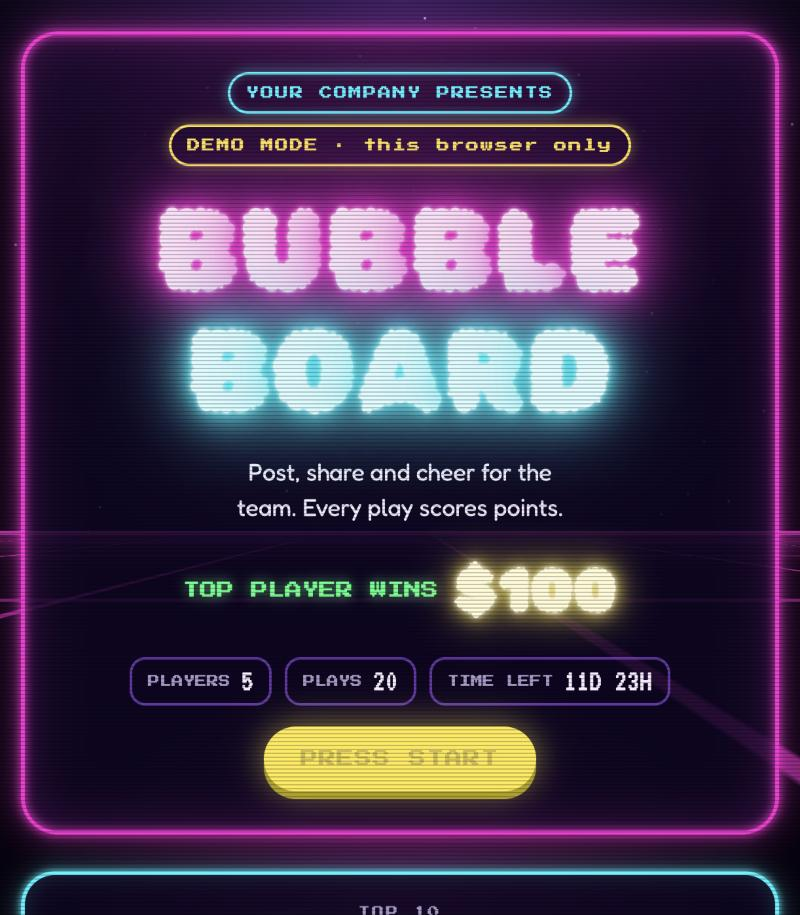
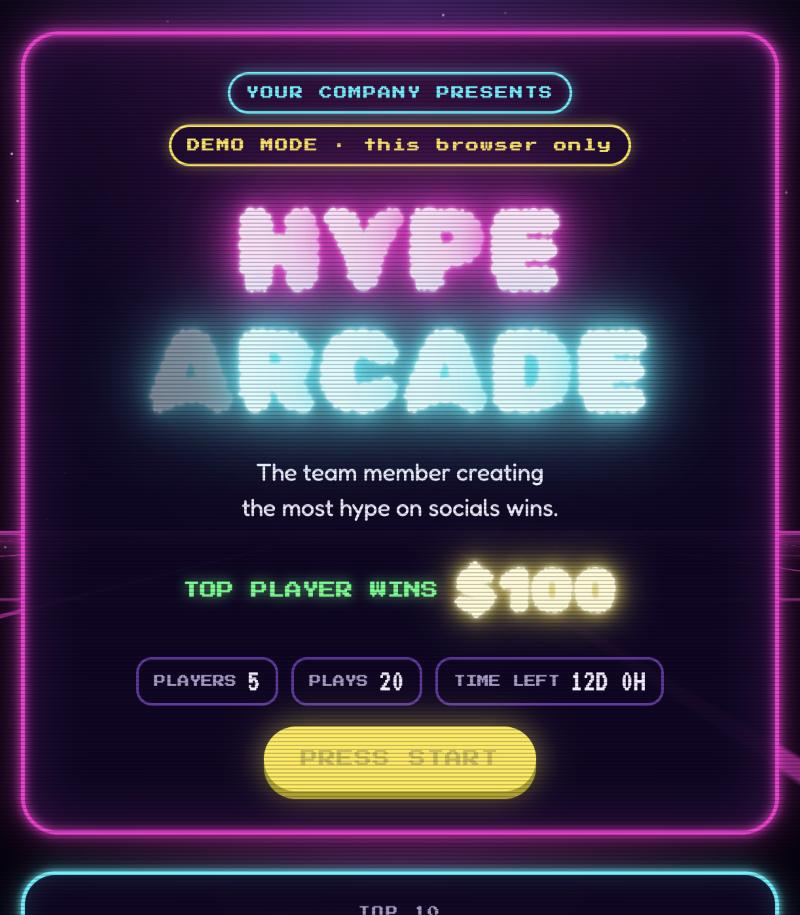
Rename to Hype Arcade with new tagline

Changed region(s): [[0.125, 0.1836, 0.875, 0.4896], [0.2812, 0.4896, 0.7188, 0.5814], [0.1562, 0.7038, 0.8438, 0.765]]

diff --git a/index.html b/index.html
@@ -3,14 +3,14 @@
 <head>
 <meta charset="utf-8">
 <meta name="viewport" content="width=device-width,initial-scale=1,viewport-fit=cover">
-<title>Bubble Board</title>
+<title>Hype Arcade</title>
 <meta name="description" content="A neon arcade high score board for employee advocacy. Teammates log their LinkedIn and Instagram plays and race for the top spot.">
 <link rel="preconnect" href="https://fonts.googleapis.com">
 <link rel="preconnect" href="https://fonts.gstatic.com" crossorigin>
 <link rel="stylesheet" href="https://fonts.googleapis.com/css2?family=Fredoka:wght@400;600&family=Press+Start+2P&family=Rubik+Bubbles&family=VT323&display=swap">
 <style>
 /* =========================================================
-   BUBBLE BOARD
+   HYPE ARCADE
    One neon arcade cabinet: marquee, high scores, log a play,
    how to score, latest plays, game master. Single dark neon look by design.
    ========================================================= */
@@ -255,8 +255,8 @@ input:focus { border-color: var(--cyan); outline: none; box-shadow: 0 0 0 3px rg
       <span class="tag" id="companyTag">YOUR COMPANY PRESENTS</span>
       <span class="tag mode demo" id="modeTag">DEMO MODE</span>
     </div>
-    <h1 class="flicker" id="title" aria-label="Bubble Board"></h1>
-    <p class="sub" id="subline">Post, share and cheer for the team. Every play scores points.</p>
+    <h1 class="flicker" id="title" aria-label="Hype Arcade"></h1>
+    <p class="sub" id="subline">The team member creating the most hype on socials wins.</p>
     <div class="prize"><span id="prizeLead">TOP PLAYER WINS</span> <b id="prize">$100</b></div>
     <div class="hud">
       <span>PLAYERS <b id="hudPlayers">--</b></span>
@@ -332,7 +332,7 @@ input:focus { border-color: var(--cyan); outline: none; box-shadow: 0 0 0 3px rg
     <p class="fine" id="adminNote">Only editors see this panel. Use the X next to any play to remove it.</p>
   </section>
 
-  <p class="credit">Made with Claude. Want your own? <a id="repoLink" href="https://github.com/alyssanewman/bubble-board">Grab the template</a>.</p>
+  <p class="credit">Made with Claude. Want your own? <a id="repoLink" href="https://github.com/alyssanewman/hype-arcade">Grab the template</a>.</p>
 </div>
 
 <script>
@@ -342,13 +342,13 @@ input:focus { border-color: var(--cyan); outline: none; box-shadow: 0 0 0 3px rg
 const CONFIG = {
   company: "Your Company",           // shows in the marquee and the rules
   instagram: "@yourcompany",         // your Instagram handle
-  titleLines: ["BUBBLE", "BOARD"],   // the big bubble letters (keep each line short)
-  subline: "Post, share and cheer for the team. Every play scores points.",
+  titleLines: ["HYPE", "ARCADE"],   // the big bubble letters (keep each line short)
+  subline: "The team member creating the most hype on socials wins.",
   prizeLead: "TOP PLAYER WINS",
   prize: "$100",
   likeCap: 10,                       // likes that count per person per day
   gameMaster: "your Game Master",    // who to ask for access
-  repoUrl: "https://github.com/alyssanewman/bubble-board", // link in the footer
+  repoUrl: "https://github.com/alyssanewman/hype-arcade", // link in the footer
   platforms: [
     { key: "li", name: "LinkedIn", host: /^https:\/\/(([a-z0-9-]+\.)*linkedin\.com|lnkd\.in)\//i, placeholder: "https://www.linkedin.com/posts/..." },
     { key: "ig", name: "Instagram", host: /^https:\/\/([a-z0-9-]+\.)*instagram\.com\//i, placeholder: "Paste the link, or describe it: launch reel, Nov 3", label: "LINK OR DESCRIPTION", describe: true },
@@ -654,7 +654,7 @@ function demoState() {
   };
 }
 function localStore() {
-  const KEY = "bubble-board-v2";
+  const KEY = "hype-arcade-v2";
   let state = null;
   try { state = JSON.parse(localStorage.getItem(KEY)); } catch {}
   if (!state || !state.players) state = demoState();

diff --git a/README.md b/README.md
@@ -1,12 +1,12 @@
-# Bubble Board 🕹
+# Hype Arcade 🕹
 
 A neon arcade high score board for employee advocacy.
 
 Your team logs every LinkedIn and Instagram play (posts, reshares, comments, likes, stories). Each play scores points, the board ranks everyone, and the top player wins the prize.
 
-![Bubble Board preview](preview.jpg)
+![Hype Arcade preview](preview.jpg)
 
-**Try the demo:** https://alyssanewman.github.io/bubble-board/
+**Try the demo:** https://alyssanewman.github.io/hype-arcade/
 
 Built with Claude by Alyssa Newman, [PVLP Social](https://pvlpsocial.com).
 
@@ -51,7 +51,7 @@ Everything lives in the `CONFIG` block at the top of the script in `index.html`:
 const CONFIG = {
   company: "Your Company",
   instagram: "@yourcompany",
-  titleLines: ["BUBBLE", "BOARD"],
+  titleLines: ["HYPE", "ARCADE"],
   prize: "$100",
   likeCap: 10,
   moves: [ /* point values for every play */ ],

diff --git a/MAKE-YOUR-OWN.md b/MAKE-YOUR-OWN.md
@@ -1,9 +1,9 @@
-# Make your own Bubble Board with Claude
+# Make your own Hype Arcade with Claude
 
 Attach `index.html` to a new chat at [claude.ai](https://claude.ai), then copy and paste everything in the box below.
 
 ```
-I'm attaching index.html. It's "Bubble Board," a neon arcade-style
+I'm attaching index.html. It's "Hype Arcade," a neon arcade-style
 employee advocacy leaderboard. My team logs LinkedIn and Instagram plays
 and competes for a prize.
 
@@ -11,7 +11,7 @@ Please make it mine:
 
 1. Ask me these questions first, all at once:
    - Company name and Instagram handle
-   - The two short words for the big bubble-letter title (or keep BUBBLE BOARD)
+   - The two short words for the big bubble-letter title (or keep HYPE ARCADE)
    - The prize
    - Contest start and end dates
    - Who runs the contest (the name teammates should ask for access)
